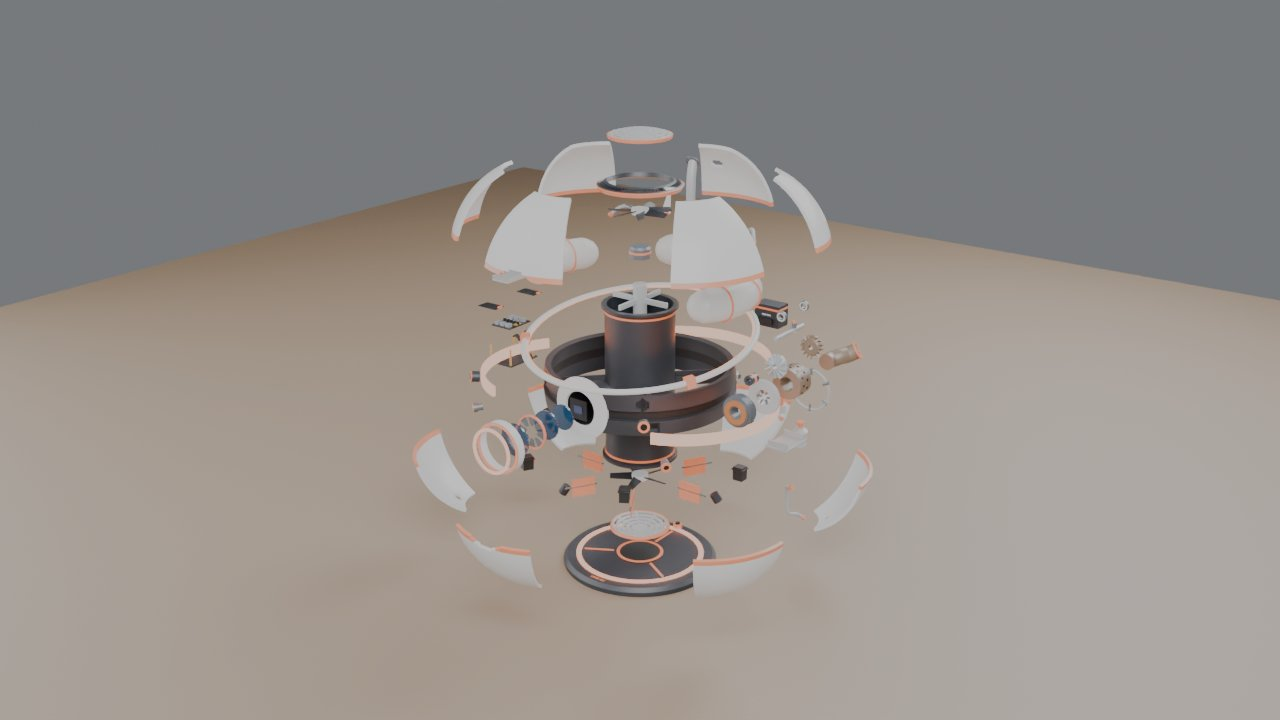
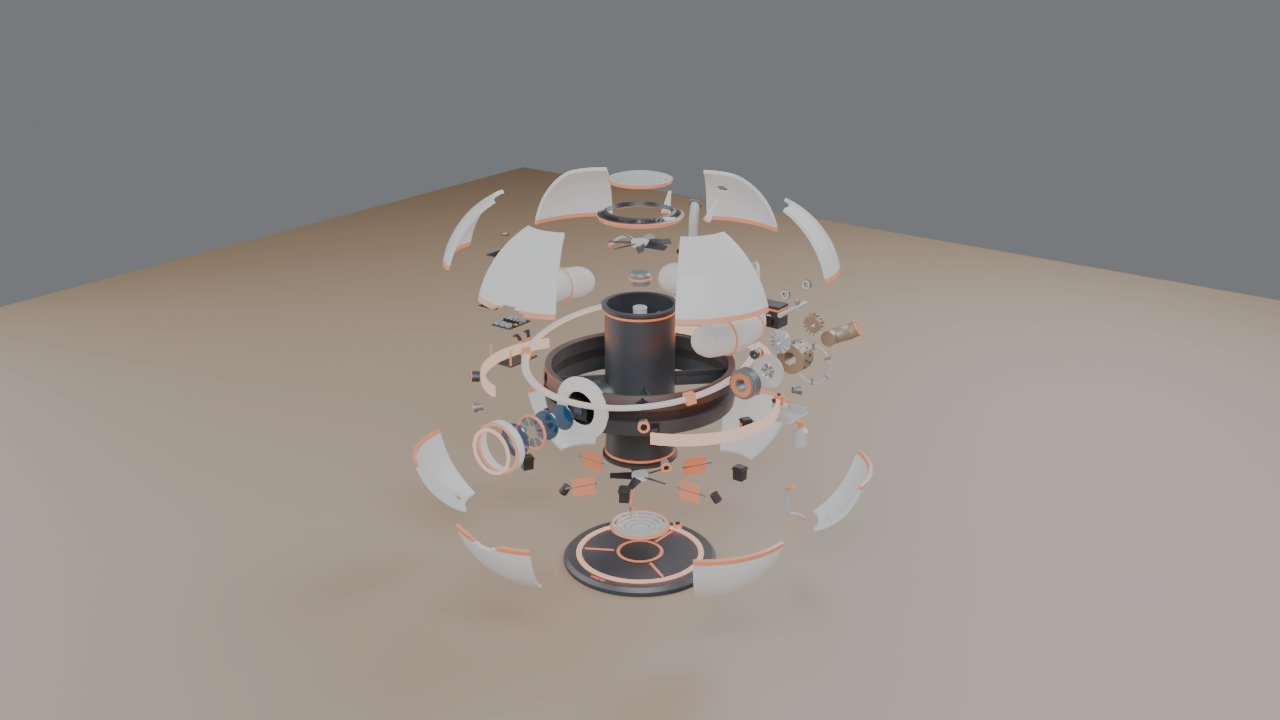
ORB-1：压低往上的爆炸距离，涡轮发电机往右后方拉出（避开触屏）
UE 体检截图里顶部的燃料舱、格栅被画面上沿切掉，右边涡轮组贴着触屏：
燃料舱上提 200→140、顶格栅 300→220、雷达环 215→160、上风扇 / 电机 / 支架各降约 25%，
上装甲瓣改回 45° 方向 270；涡轮组 +X 230 → (+X 170, +Y 110)。

Claude-Session: https://claude.ai/code/session_01M21hmvGfAjYKhvrHopwYaf

Changed region(s): [[0.3438, 0.1528, 0.6875, 0.6111]]

diff --git a/球形漂浮机器人爆炸图/build_orb_bot.py b/球形漂浮机器人爆炸图/build_orb_bot.py
@@ -892,7 +892,7 @@ def along(v, d, s):
     return (v.x, v.y, v.z, s)
 
 
-TURB = [(230, 0, 0, .32)]
+TURB = [(170, 110, 0, .32)]      # 往右再往后让：右手边靠前是虚幻工作室的触屏
 ELEC = [(-220, 0, 0, .34)]
 
 
@@ -985,7 +985,7 @@ def build_petals(M):
             sph_grid(bm, R_IN, R_OUT, lat0, lat1, lon0, lon1, fn, step=1.5)
             c = 60 * k + 30
             if upper:
-                ex = [along(sdir(55, c), 300, .09)]
+                ex = [along(sdir(45, c), 270, .09)]
                 finish(f'P05_UpperPetal_{k + 1}', 5, bm, mats, ex=ex)
             else:
                 ex = [radial(c, 270, -120, .12)]
@@ -1010,7 +1010,7 @@ def build_grilles(M):
     mats = [M['alu'], M['orange']]
     bm = bmesh.new()
     sph_grid(bm, R_IN, R_OUT, 70.6, 90, 0, 360, grille_fn(1), step=3.0, lat_step=.5)
-    finish('P07_TopGrille', 7, bm, mats, ex=[(0, 0, 300, .04)])
+    finish('P07_TopGrille', 7, bm, mats, ex=[(0, 0, 220, .04)])
     bm = bmesh.new()
     sph_grid(bm, R_IN, R_OUT, -90, -70.6, 0, 360, grille_fn(-1), step=3.0, lat_step=.5)
     finish('P08_BottomGrille', 8, bm, mats, ex=[(0, 0, -140, .1)])
@@ -1021,7 +1021,7 @@ def build_lidar(M):
     bm = bmesh.new()
     sph_grid(bm, 172, 180, 63.8, 70.4, 0, 360,
              lambda la, lo: 1 if 65.6 < la < 68.4 else (2 if la < 64.6 else 0), step=3.0, lat_step=.6)
-    finish('P09_LidarRing', 9, bm, mats, ex=[(0, 0, 215, .07)])
+    finish('P09_LidarRing', 9, bm, mats, ex=[(0, 0, 160, .07)])
 
 
 def build_halo(M):
@@ -1039,7 +1039,7 @@ def build_halo(M):
         bmesh.ops.transform(b, verts=b.verts,
                             matrix=tilt @ Matrix.Translation((218 * cos(a), 218 * sin(a), 0)) @ Matrix.Rotation(a, 4, 'Z'))
         to_bm(bm, b)
-    finish('P10_Halo', 10, bm, mats, ex=[(0, 0, 90, 0.0)])
+    finish('P10_Halo', 10, bm, mats, ex=[(0, 0, 60, 0.0)])
 
 
 def build_light_strips(M):
@@ -1057,7 +1057,7 @@ ZL = -75.0           # 下半球油路的高度（相对球心）
 
 
 def tank_route(c):
-    return [radial(c, 90, 200, .72)]
+    return [radial(c, 100, 140, .72)]
 
 
 def build_tanks(M):
@@ -1086,7 +1086,7 @@ def build_filler(M):
     mid = Vector((a.x * .9 + b.x * .1, a.y * .9 + b.y * .1, (a.z + b.z) * .5 + 10))
     sweep(bm, catmull([a, mid, b], 8), 9.0, 0, sides=16)
     rev_d(bm, [(9, 0), (14, 0), (14, 3), (9, 3)], 1, d, b - d * 8, seg=24, closed=True)
-    finish('P13_FillerNeck', 13, bm, mats, ex=tank_route(90.0) + [(0, 0, 70, .8)])
+    finish('P13_FillerNeck', 13, bm, mats, ex=tank_route(90.0) + [(0, 0, 45, .8)])
     bm = bmesh.new()
     rev_d(bm, [(0, 0), (13.5, 0), (13.5, 4), (11.5, 6.5), (0, 6.5)], 2, d, CEN + d * 175.5, seg=32)
     rev_d(bm, [(9, -3), (12, -3), (12, 0), (9, 0)], 3, d, CEN + d * 175.5, seg=24, closed=True)
@@ -1101,7 +1101,7 @@ def build_level_sensor(M):
     rod(bm, 5.5, p.z, p.z + 16, 0, 'Z', (p.x, p.y, 0), seg=20)
     boxf(bm, (p.x - 8, p.y - 6, p.z + 16), (p.x + 8, p.y + 6, p.z + 26), 1)
     boxf(bm, (p.x - 8.2, p.y - 6.2, p.z + 20), (p.x + 8.2, p.y + 6.2, p.z + 22), 2)
-    finish('P15_LevelSensor', 15, bm, mats, bevel=.6, ex=tank_route(180.0) + [(0, 0, 60, .82)])
+    finish('P15_LevelSensor', 15, bm, mats, bevel=.6, ex=tank_route(180.0) + [(0, 0, 40, .82)])
 
 
 def lower_route(lon):
@@ -1162,9 +1162,9 @@ def build_lines(M):
         ([pol(104, 32, ZL + 32), pol(92, 25, ZL + 44), pol(77, 15, -20), pol(77, 8, 30),
           Vector((86, -2, ZC + 40)), Vector((97, -6, T.z - 28))], [(0, 0, -200, .28), radial(15, 220, 0, .5)]),
         ([pol(118, 30, 27), pol(118, 38, 40), pol(118, 45, 44), pol(118, 52, 40), pol(118, 60, 27)],
-         [radial(45, 90, 240, .74)]),
+         [radial(45, 100, 175, .74)]),
         ([pol(118, 120, 27), pol(118, 128, 40), pol(118, 135, 44), pol(118, 142, 40), pol(118, 150, 27)],
-         [radial(135, 90, 240, .74)]),
+         [radial(135, 100, 175, .74)]),
     ]
     for k, (pts, ex) in enumerate(runs):
         bm = bmesh.new()
@@ -1377,11 +1377,11 @@ def fan(bm, z, nb, tilt, r_tip, mats_idx=(0, 1)):
 def build_propulsion(M):
     bm = bmesh.new()
     fan(bm, ZC + 67, 7, 24, 58)
-    finish('P34_UpperFan', 34, bm, [M['graphite'], M['shell']], ex=[(0, 0, 260, .4)])
+    finish('P34_UpperFan', 34, bm, [M['graphite'], M['shell']], ex=[(0, 0, 200, .4)])
     bm = bmesh.new()
     rev(bm, [(0, 40), (20, 40), (20, 58), (17, 62), (0, 62)], 0, 'Z', (0, 0, ZC), seg=40)
     rev(bm, [(20, 49), (20.6, 49), (20.6, 53), (20, 53)], 1, 'Z', (0, 0, ZC), seg=40, closed=True)
-    finish('P35_UpperMotor', 35, bm, [M['steel'], M['orange']], ex=[(0, 0, 200, .46)])
+    finish('P35_UpperMotor', 35, bm, [M['steel'], M['orange']], ex=[(0, 0, 150, .46)])
     bm = bmesh.new()
     rod(bm, 13, ZC - 18, ZC + 40, 0, 'Z', (0, 0, 0), seg=32)
     for k in range(4):
@@ -1389,7 +1389,7 @@ def build_propulsion(M):
         boxf(b, (13, -2.5, ZC + 4), (62, 2.5, ZC + 14), 0)
         bmesh.ops.rotate(b, verts=b.verts, cent=(0, 0, 0), matrix=Matrix.Rotation(pi / 2 * k, 3, 'Z'))
         to_bm(bm, b)
-    finish('P36_MotorMount', 36, bm, [M['alu']], bevel=.6, ex=[(0, 0, 150, .52)])
+    finish('P36_MotorMount', 36, bm, [M['alu']], bevel=.6, ex=[(0, 0, 105, .52)])
     bm = bmesh.new()
     rev(bm, [(0, -40), (17, -40), (20, -36), (20, -18), (0, -18)], 0, 'Z', (0, 0, ZC), seg=40)
     rev(bm, [(20, -31), (20.6, -31), (20.6, -27), (20, -27)], 1, 'Z', (0, 0, ZC), seg=40, closed=True)

diff --git a/球形漂浮机器人爆炸图/README.md b/球形漂浮机器人爆炸图/README.md
@@ -52,7 +52,7 @@
 | 3 | 12 片装甲瓣像花一样打开：上 6 瓣往斜上，下 6 瓣往外再往下 |
 | 4 | 主眼的镜片、光圈、传感器、遮光罩沿视线往前一片片排开 |
 | 5 | 下半球的油路（滤清器、泵、阀、油管）往外 |
-| 6 | 电池往后；涡轮发电机往右整体拉出，再沿轴线拆成一串；电子舱往左拉出，再一层层往上叠开 |
+| 6 | 电池往后；涡轮发电机往右后方整体拉出（避开虚幻工作室右手边的触屏），再沿轴线拆成一串；电子舱往左拉出，再一层层往上叠开 |
 | 7 | 舵机往外，舵片往下再往外；上风扇、上电机、电机支架从涵道顶上抽出，下风扇、下电机从底下抽出 |
 | 8 | 三段燃料舱（连着加注管、液位传感器、跨接油管）最后往上提 |
 
